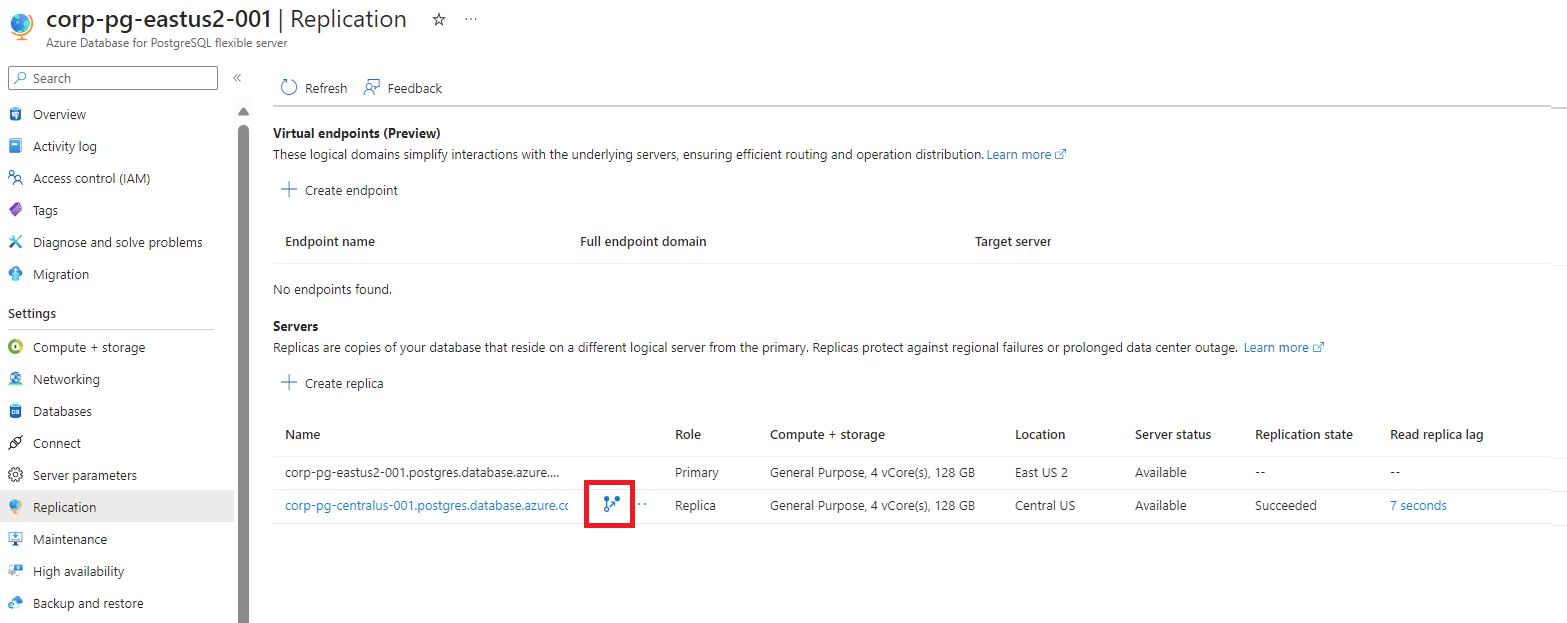
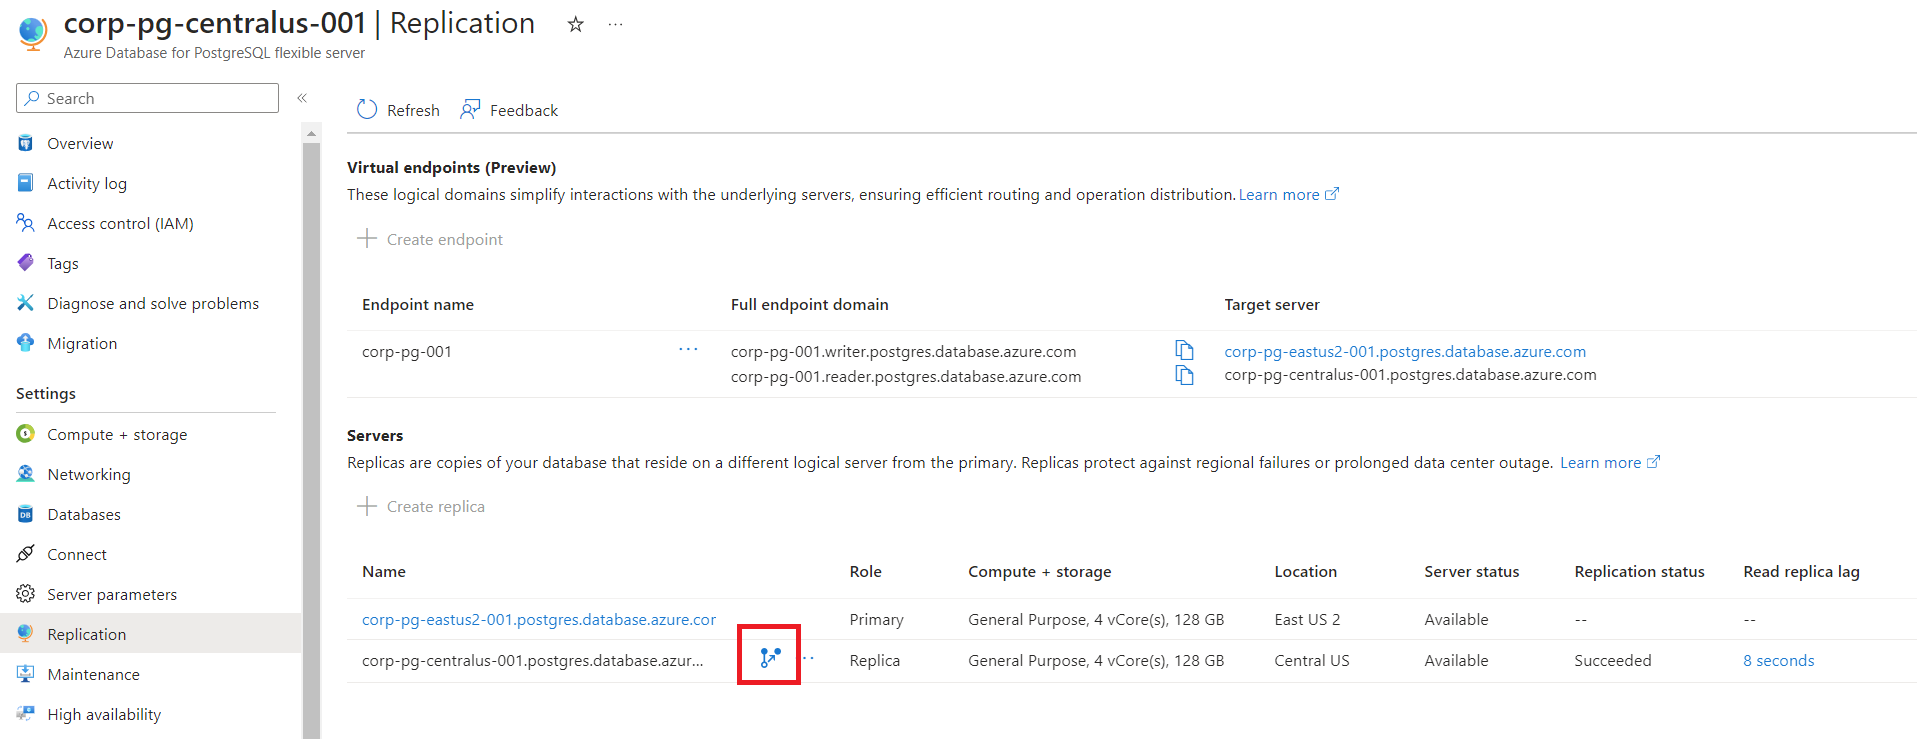
updates.

diff --git a/labs/03_crsw.md b/labs/03_crsw.md
@@ -30,7 +30,7 @@ Before adding a replica for failover purposes, review the target Azure Database 
 ### Server configuration
 
 - In the [Azure portal](https://portal.azure.com/), choose the Azure Database for PostgreSQL Flexible Server that you want to setup a replica for.
-- On the **Overview** dialog, note the PostgreSQL version (ex `15.3`).  Also note the region your primary is deployed too (ex. `East US`).
+- On the **Overview** dialog, note the PostgreSQL version (ex `15.4`).  Also note the region your primary is deployed too (ex. `East US`).
 
   ![Primary instance version and location is highlighted.](../media/enable-promote/primary-settings.png)
 
@@ -51,7 +51,7 @@ Before adding a replica for failover purposes, review the target Azure Database 
 > **NOTE** Read replicas are not supported for primary that has **Storage Auto-growth** enabled.  Uncheck this box if it is checked.
     
 - Under **Settings**, select **Networking**
-- Reviewing the following settings:
+- Review the network settings
     - Public access
     - Firewall rules
       - Allow public access
@@ -139,7 +139,7 @@ To create a read replica, follow these steps:
 
   ![Promotion error when missing virtual endpoint.](../media/enable-promote/replica-promote-attempt.png)
 
-### Modify application to point to virtual endpoint
+### Modify application(s) to point to virtual endpoint
 
 Modify any applications that are using your Azure Database for PostgreSQL to use the new writer virtual endpoint (ex: `corp-pg-001-writer.postgres.database.azure.com`)
 
@@ -181,7 +181,9 @@ Repeat the same operations to promote the original server to the primary:
 
 ### Test applications
 
-Again, switch to one of the consuming applications.  Attempt to perform some operations.
+Again, switch to one of the consuming applications.  Wait for the primary and replica status to change to `updating` and then attempt to perform some operations.  During the replica promote, it is possible your application will encounter connectivity issues to the writer endpoint:
+
+  ![Potential failover connectivity errors.](../media/enable-promote/failover-connectivity.png)
 
 ## Monitor a replica
 
